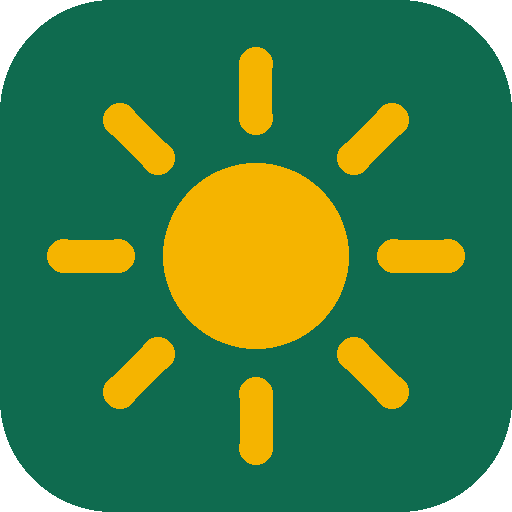
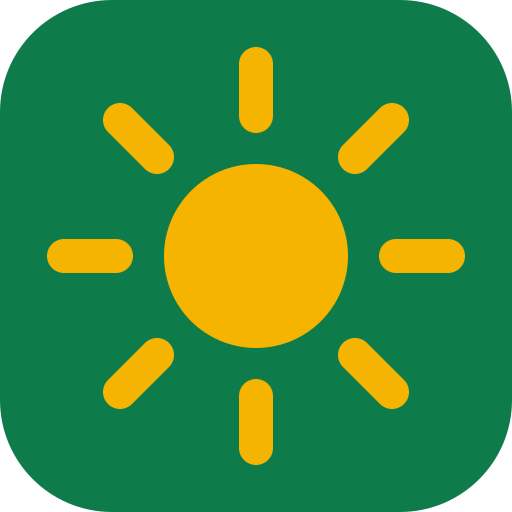
Zelfde kleuren als boodschappenvergelijk.nl (groen), groene app-iconen, regel 'Van de maker van Boodschappenvergelijk.nl'
Claude-Session: https://claude.ai/code/session_01Lxu2CyLGSfNCLxeu15Dh1J

diff --git a/index.html b/index.html
@@ -8,7 +8,7 @@
 <link rel="canonical" href="https://salderingscheck-nl.netlify.app/">
 <script data-goatcounter="https://salderingscheck-nl.goatcounter.com/count" async src="//gc.zgo.at/count.js"></script>
 <meta name="e0d5a73bd035a1c" content="277030417ea9ada19f69ae08c41fb74b">
-<meta name="theme-color" content="#0f6b4f">
+<meta name="theme-color" content="#0e7c4a">
 <link rel="preload" href="/fonts/big-shoulders-display-800.woff2" as="font" type="font/woff2" crossorigin>
 <link rel="preload" href="/fonts/atkinson-hyperlegible-400.woff2" as="font" type="font/woff2" crossorigin>
 <link rel="manifest" href="/manifest.webmanifest">
@@ -84,8 +84,8 @@
 </script>
 <style>
 :root{
-  --bg:#f5f7f4;--card:#ffffff;--ink:#14231c;--muted:#5b6b63;--line:#dfe6e1;
-  --brand:#0f6b4f;--brand-2:#0b5540;--sun:#f5b400;--sun-soft:#fff6d6;
+  --bg:#f4f7f1;--card:#ffffff;--ink:#1e2a22;--muted:#5d6a61;--line:#e1e7dc;
+  --brand:#0e7c4a;--brand-2:#0a6239;--sun:#f5b400;--sun-soft:#fff6d6;
   --good:#127a3e;--good-soft:#e5f5ea;--bad:#b42318;--bad-soft:#fdecea;--warn:#7a5200;--warn-soft:#fff4d6;
   --radius:16px;--shadow:0 3px 8px rgba(10,40,28,.14),0 14px 36px rgba(10,40,28,.24);--shadow-sm:0 1px 3px rgba(10,40,28,.12),0 4px 12px rgba(10,40,28,.12);
 }
@@ -105,7 +105,7 @@ a{color:var(--brand)}
 @font-face{font-family:'Atkinson Hyperlegible';font-style:normal;font-weight:700;font-display:swap;src:url(/fonts/atkinson-hyperlegible-700.woff2) format('woff2')}
 @font-face{font-family:'JetBrains Mono';font-style:normal;font-weight:500 700;font-display:swap;src:url(/fonts/jetbrains-mono-500.woff2) format('woff2')}
 .hero{position:relative;overflow:hidden;color:#eaf5ef;padding:18px 0 64px;border-bottom:4px solid var(--sun);
-  background:radial-gradient(110% 80% at 100% 0%,rgba(245,180,0,.30) 0%,rgba(245,180,0,0) 48%),linear-gradient(160deg,#0c5a43 0%,#0f6b4f 45%,#0a4a38 100%)}
+  background:radial-gradient(110% 80% at 100% 0%,rgba(245,180,0,.30) 0%,rgba(245,180,0,0) 48%),linear-gradient(160deg,#0a6239 0%,#0e7c4a 45%,#0a6239 100%)}
 .hero .deco{position:absolute;right:-90px;top:-20px;width:360px;height:360px;opacity:.6;pointer-events:none;z-index:0}
 .hero-in{z-index:1}
 @media (min-width:700px){.hero .deco{right:2%;top:-10px;width:460px;height:460px;opacity:.7}}
@@ -246,7 +246,7 @@ th{color:var(--muted);font-weight:600;font-size:.82rem}
 .info summary{color:var(--ink);font-size:1rem}
 .info p,.info li{color:var(--ink);font-size:.95rem}
 .info ul{padding-left:20px}
-.toast{position:fixed;left:50%;bottom:24px;transform:translateX(-50%);background:#14231c;color:#fff;padding:10px 16px;border-radius:10px;font-size:.92rem;opacity:0;transition:opacity .2s;pointer-events:none;z-index:9}
+.toast{position:fixed;left:50%;bottom:24px;transform:translateX(-50%);background:#1e2a22;color:#fff;padding:10px 16px;border-radius:10px;font-size:.92rem;opacity:0;transition:opacity .2s;pointer-events:none;z-index:9}
 .toast.show{opacity:1}
 footer{color:var(--muted);font-size:.86rem;padding:8px 0 40px}
 footer a{color:var(--muted)}
@@ -282,6 +282,8 @@ h1{font-family:inherit;font-weight:700;text-transform:none;font-size:clamp(28px,
 .chip.alt{background:var(--warn-soft);color:var(--warn)}
 .todo-cta{background:linear-gradient(180deg,#14935e,var(--brand));color:#fff;box-shadow:0 3px 8px rgba(10,40,28,.25)}
 main.wrap{margin-top:0!important}
+.maker{font-size:13px;color:var(--muted);margin:0 0 6px}.maker a{color:var(--ink);font-weight:700;text-decoration:none}.maker a:hover{text-decoration:underline}
+.todo-cta{background:linear-gradient(180deg,#17a061 0%,#0e7c4a 55%,#0b6a3f 100%)!important}
 /* gbstijl:end */
 </style>
 </head>
@@ -298,7 +300,8 @@ main.wrap{margin-top:0!important}
     <g transform="translate(118 168) skewX(-20)" opacity=".75"><rect width="128" height="62" rx="5" fill="#0a3d2f" stroke="#cfe9dd" stroke-width="3"/><path d="M32 0v62M64 0v62M96 0v62M0 31h128" stroke="#cfe9dd" stroke-width="2.5"/><path d="M6 6h20" stroke="#ffffff" stroke-width="3" stroke-linecap="round" opacity=".5"/></g>
   </svg>
   <div class="wrap hero-in">
-    <h1>Wat kost het einde van salderen jou?</h1>
+    <p class="maker">Van de maker van <a href="https://boodschappenvergelijk.nl/?bron=salderingscheck">Boodschappenvergelijk.nl</a>, bekend van Hart van Nederland en RTV Oost</p>
+<h1>Wat kost het einde van salderen jou?</h1>
     <p class="lead">Zie in 1 minuut wat je vanaf 2027 extra betaalt, en wat het slimst is om te doen. Gratis, onafhankelijk en zonder account.</p>
     <section class="meters" aria-label="Kerncijfers">
       <div class="meter"><div class="lab">Salderen stopt</div><div class="led" id="ledDagen">47<small>dgn</small></div><div class="src">op 1 jan 2027</div></div>

diff --git a/artikel.css b/artikel.css
@@ -1,7 +1,7 @@
 @font-face{font-family:'Big Shoulders Display';font-style:normal;font-weight:800;font-display:swap;src:url(/fonts/big-shoulders-display-800.woff2) format('woff2')}
 @font-face{font-family:'Atkinson Hyperlegible';font-style:normal;font-weight:400;font-display:swap;src:url(/fonts/atkinson-hyperlegible-400.woff2) format('woff2')}
 @font-face{font-family:'Atkinson Hyperlegible';font-style:normal;font-weight:700;font-display:swap;src:url(/fonts/atkinson-hyperlegible-700.woff2) format('woff2')}
-:root{--bg:#f5f7f4;--card:#fff;--ink:#14231c;--muted:#56665e;--line:#dfe6e1;--brand:#0f6b4f;--sun:#f5b400;--good:#127a3e;--good-soft:#e5f5ea;--bad:#b42318;--warn-soft:#fff4d6;
+:root{--bg:#f4f7f1;--card:#fff;--ink:#1e2a22;--muted:#56665e;--line:#e1e7dc;--brand:#0e7c4a;--sun:#f5b400;--good:#127a3e;--good-soft:#e5f5ea;--bad:#b42318;--warn-soft:#fff4d6;
 --shadow:0 3px 8px rgba(10,40,28,.14),0 14px 36px rgba(10,40,28,.24);--shadow-sm:0 1px 3px rgba(10,40,28,.12),0 4px 12px rgba(10,40,28,.12)}
 @media (prefers-color-scheme:dark){:root{--bg:#0e1512;--card:#16201b;--ink:#e8efe9;--muted:#9fb0a7;--line:#26332c;--brand:#3fbf8f;--good:#5fd38a;--good-soft:#14301f;--bad:#ff8a80;--warn-soft:#332a10;
 --shadow:0 2px 4px rgba(0,0,0,.45),0 10px 28px rgba(0,0,0,.55);--shadow-sm:0 1px 3px rgba(0,0,0,.5),0 4px 12px rgba(0,0,0,.4)}}
@@ -11,7 +11,7 @@ body{margin:0;background:var(--bg);color:var(--ink);font:17px/1.6 "Atkinson Hype
 a{color:var(--brand)}
 .wrap{max-width:760px;margin:0 auto;padding:0 16px}
 .hero{position:relative;overflow:hidden;color:#fff;padding:16px 0 56px;border-bottom:4px solid var(--sun);
-background:radial-gradient(110% 80% at 100% 0%,rgba(245,180,0,.30) 0%,rgba(245,180,0,0) 48%),linear-gradient(160deg,#0c5a43 0%,#0f6b4f 45%,#0a4a38 100%)}
+background:radial-gradient(110% 80% at 100% 0%,rgba(245,180,0,.30) 0%,rgba(245,180,0,0) 48%),linear-gradient(160deg,#0a6239 0%,#0e7c4a 45%,#0a6239 100%)}
 .hero .deco{position:absolute;right:-70px;top:-10px;width:260px;height:260px;opacity:.5;pointer-events:none}
 .hero .wrap{position:relative}
 .brand{display:inline-flex;align-items:center;gap:10px;text-decoration:none}
@@ -42,7 +42,7 @@ tr:last-child td{border-bottom:0}
 .goed{color:var(--good);font-weight:700}
 .bron{font-size:.8rem;color:var(--muted)}
 .note{font-size:.88rem;color:var(--muted)}
-.cta{display:flex;flex-direction:column;gap:10px;background:linear-gradient(160deg,#0c5a43,#0f6b4f);color:#fff;border-radius:16px;padding:18px;box-shadow:var(--shadow);margin:18px 0}
+.cta{display:flex;flex-direction:column;gap:10px;background:linear-gradient(160deg,#0a6239,#0e7c4a);color:#fff;border-radius:16px;padding:18px;box-shadow:var(--shadow);margin:18px 0}
 .cta b{font-size:1.1rem}
 .cta a{display:flex;justify-content:center;align-items:center;gap:8px;background:var(--sun);color:#1a1405;font-weight:700;text-decoration:none;border-radius:12px;padding:13px 16px;min-height:48px;box-shadow:0 6px 18px rgba(245,180,0,.35)}
 .steps{counter-reset:s;list-style:none;padding:0;margin:10px 0}

diff --git a/embed/embed.css b/embed/embed.css
@@ -3,8 +3,8 @@
 @font-face{font-family:'Atkinson Hyperlegible';font-weight:700;font-display:swap;src:url(/fonts/atkinson-hyperlegible-700.woff2) format('woff2')}
 *{box-sizing:border-box}
 html,body{margin:0;background:transparent}
-body{font:15px/1.45 "Atkinson Hyperlegible",system-ui,sans-serif;color:#14231c}
-.w{max-width:440px;margin:0 auto;padding:16px;border-radius:16px;color:#fff;background:linear-gradient(160deg,#0c5a43,#0f6b4f 45%,#0a4a38);border-bottom:4px solid #f5b400;box-shadow:0 8px 24px rgba(0,0,0,.2)}
+body{font:15px/1.45 "Atkinson Hyperlegible",system-ui,sans-serif;color:#1e2a22}
+.w{max-width:440px;margin:0 auto;padding:16px;border-radius:16px;color:#fff;background:linear-gradient(160deg,#0a6239,#0e7c4a 45%,#0a6239);border-bottom:4px solid #f5b400;box-shadow:0 8px 24px rgba(0,0,0,.2)}
 .top{display:flex;justify-content:space-between;align-items:center}
 .logo{font-family:'Big Shoulders Display',Impact,sans-serif;font-weight:800;font-size:1.45rem;letter-spacing:.3px}
 .logo span{background:#f5b400;color:#1a1405;padding:0 5px;margin-left:2px;border-radius:3px}
@@ -13,7 +13,7 @@ body{font:15px/1.45 "Atkinson Hyperlegible",system-ui,sans-serif;color:#14231c}
 .row{display:grid;grid-template-columns:1fr 1fr;gap:8px}
 label{display:flex;flex-direction:column;gap:4px;font-size:.82rem;font-weight:700;color:#d8efe5}
 label.full{margin-top:8px}
-input,select{font:inherit;font-size:16px;color:#14231c;background:#fff;border:0;border-radius:10px;padding:9px 10px;min-height:42px;width:100%}
+input,select{font:inherit;font-size:16px;color:#1e2a22;background:#fff;border:0;border-radius:10px;padding:9px 10px;min-height:42px;width:100%}
 .out{margin-top:10px;background:#08362a;border-radius:12px;padding:10px 12px;display:flex;align-items:baseline;gap:10px;flex-wrap:wrap}
 .out span{font-size:.82rem;color:#b9d8c9;font-weight:700;text-transform:uppercase}
 .out b{font-size:1.7rem;color:#f5b400;font-family:ui-monospace,monospace}

diff --git a/app.js b/app.js
@@ -310,7 +310,7 @@
     var x = cv.getContext('2d');
     var fonts = ['800 80px "Big Shoulders Display"', '400 40px "Atkinson Hyperlegible"', '700 40px "Atkinson Hyperlegible"'];
     return Promise.all(fonts.map(function (f) { return document.fonts ? document.fonts.load(f).catch(function () {}) : null; })).then(function () {
-      var g = x.createLinearGradient(0, 0, W, H); g.addColorStop(0, '#0c5a43'); g.addColorStop(.5, '#0f6b4f'); g.addColorStop(1, '#0a4a38');
+      var g = x.createLinearGradient(0, 0, W, H); g.addColorStop(0, '#0a6239'); g.addColorStop(.5, '#0e7c4a'); g.addColorStop(1, '#0a6239');
       x.fillStyle = g; x.fillRect(0, 0, W, H);
       var rg = x.createRadialGradient(W, 0, 0, W, 0, 700); rg.addColorStop(0, 'rgba(245,180,0,.35)'); rg.addColorStop(1, 'rgba(245,180,0,0)');
       x.fillStyle = rg; x.fillRect(0, 0, W, H);
@@ -343,8 +343,8 @@
       x.fillStyle = '#fff'; x.beginPath();
       if (x.roundRect) x.roundRect(60, 1110, W - 120, 180, 36); else x.rect(60, 1110, W - 120, 180);
       x.fill();
-      x.fillStyle = '#14231c'; x.font = '400 40px "Atkinson Hyperlegible", sans-serif'; x.fillText('Wat kost het jou? Reken het gratis uit:', 100, 1180);
-      x.fillStyle = '#0f6b4f'; x.font = '700 50px "Atkinson Hyperlegible", sans-serif'; x.fillText('salderingscheck-nl.netlify.app', 100, 1250);
+      x.fillStyle = '#1e2a22'; x.font = '400 40px "Atkinson Hyperlegible", sans-serif'; x.fillText('Wat kost het jou? Reken het gratis uit:', 100, 1180);
+      x.fillStyle = '#0e7c4a'; x.font = '700 50px "Atkinson Hyperlegible", sans-serif'; x.fillText('salderingscheck-nl.netlify.app', 100, 1250);
       return new Promise(function (res, rej) { cv.toBlob(function (bl) { bl ? res(bl) : rej(); }, 'image/png'); });
     });
   }

diff --git a/einde-salderen-wat-nu/index.html b/einde-salderen-wat-nu/index.html
@@ -7,7 +7,7 @@
 <meta name="description" content="Einde salderingsregeling op 1 januari 2027: checklist met zes stappen. Kosten berekenen, leverancier vergelijken, zelf meer verbruiken, voorschot aanpassen en eerlijk over de thuisbatterij.">
 <link rel="canonical" href="https://salderingscheck-nl.netlify.app/einde-salderen-wat-nu/">
 <script data-goatcounter="https://salderingscheck-nl.goatcounter.com/count" async src="//gc.zgo.at/count.js"></script>
-<meta name="theme-color" content="#0f6b4f">
+<meta name="theme-color" content="#0e7c4a">
 <link rel="preload" href="/fonts/big-shoulders-display-800.woff2" as="font" type="font/woff2" crossorigin>
 <link rel="preload" href="/fonts/atkinson-hyperlegible-400.woff2" as="font" type="font/woff2" crossorigin>
 <link rel="stylesheet" href="/artikel.css">

diff --git a/thuisbatterij-terugverdientijd/index.html b/thuisbatterij-terugverdientijd/index.html
@@ -7,7 +7,7 @@
 <meta name="description" content="Terugverdientijd van een thuisbatterij na 2027: kleine plug-and-play rond 8 jaar, grote vaste batterij vaak nooit. Rekenvoorbeelden en de vijf dingen die bepalen of hij loont.">
 <link rel="canonical" href="https://salderingscheck-nl.netlify.app/thuisbatterij-terugverdientijd/">
 <script data-goatcounter="https://salderingscheck-nl.goatcounter.com/count" async src="//gc.zgo.at/count.js"></script>
-<meta name="theme-color" content="#0f6b4f">
+<meta name="theme-color" content="#0e7c4a">
 <link rel="preload" href="/fonts/big-shoulders-display-800.woff2" as="font" type="font/woff2" crossorigin>
 <link rel="preload" href="/fonts/atkinson-hyperlegible-400.woff2" as="font" type="font/woff2" crossorigin>
 <link rel="stylesheet" href="/artikel.css">

diff --git a/terugleverkosten-2027/index.html b/terugleverkosten-2027/index.html
@@ -7,7 +7,7 @@
 <meta name="description" content="Netto terugleververgoeding 2027 per energieleverancier: van 0 tot ruim 5 cent per kWh bij 1 jaar vast. Vergelijk Eneco, Oxxio, Vattenfall, DELTA, Essent en meer.">
 <link rel="canonical" href="https://salderingscheck-nl.netlify.app/terugleverkosten-2027/">
 <script data-goatcounter="https://salderingscheck-nl.goatcounter.com/count" async src="//gc.zgo.at/count.js"></script>
-<meta name="theme-color" content="#0f6b4f">
+<meta name="theme-color" content="#0e7c4a">
 <link rel="preload" href="/fonts/big-shoulders-display-800.woff2" as="font" type="font/woff2" crossorigin>
 <link rel="preload" href="/fonts/atkinson-hyperlegible-400.woff2" as="font" type="font/woff2" crossorigin>
 <link rel="stylesheet" href="/artikel.css">

diff --git a/over/index.html b/over/index.html
@@ -7,7 +7,7 @@
 <meta name="description" content="Over Salderingscheck: onafhankelijke, gratis rekentool van Erik. Uitleg van de berekening, bronnen, privacy zonder cookies en een gratis widget voor je eigen site.">
 <link rel="canonical" href="https://salderingscheck-nl.netlify.app/over/">
 <script data-goatcounter="https://salderingscheck-nl.goatcounter.com/count" async src="//gc.zgo.at/count.js"></script>
-<meta name="theme-color" content="#0f6b4f">
+<meta name="theme-color" content="#0e7c4a">
 <link rel="preload" href="/fonts/big-shoulders-display-800.woff2" as="font" type="font/woff2" crossorigin>
 <link rel="preload" href="/fonts/atkinson-hyperlegible-400.woff2" as="font" type="font/woff2" crossorigin>
 <link rel="stylesheet" href="/artikel.css">

diff --git a/sw.js b/sw.js
@@ -1,5 +1,5 @@
 /* Salderingscheck service worker: offline werken, altijd eerst de nieuwste versie proberen */
-var CACHE = 'salderingscheck-v24';
+var CACHE = 'salderingscheck-v25';
 var BESTANDEN = ['/', '/index.html', '/calc.js', '/app.js', '/manifest.webmanifest', '/icons/icon.svg', '/icons/icon-192.png', '/icons/icon-512.png'];
 self.addEventListener('install', function (e) {
   e.waitUntil(caches.open(CACHE).then(function (c) { return c.addAll(BESTANDEN); }).then(function () { return self.skipWaiting(); }));

diff --git a/pages.py b/pages.py
@@ -65,7 +65,7 @@ def pagina(slug, titel, h1, lead, beschrijving, body, faq, kruimel):
 <meta name="description" content="{e(beschrijving)}">
 <link rel="canonical" href="{url}">
 {GC}
-<meta name="theme-color" content="#0f6b4f">
+<meta name="theme-color" content="#0e7c4a">
 <link rel="preload" href="/fonts/big-shoulders-display-800.woff2" as="font" type="font/woff2" crossorigin>
 <link rel="preload" href="/fonts/atkinson-hyperlegible-400.woff2" as="font" type="font/woff2" crossorigin>
 <link rel="stylesheet" href="/artikel.css">
